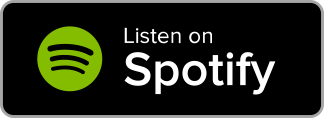
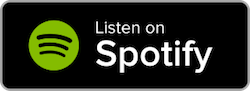
Reduce image sizes

diff --git a/index.html b/index.html
@@ -8,7 +8,7 @@
 
     <!-- HEADER -->
     <header>
-      <img src="images/albums/hopeinspades/tobetterwaters-weblogo_01a.png" alt="to better waters image">
+      <img src="images/albums/hopeinspades/tobetterwaters-weblogo_01a-edited.png" alt="to better waters image">
       <ul>
         <!-- PAGE LINKS -->
         <li><a href="index.html">home</a></li>
@@ -30,9 +30,9 @@
       </div>
       <!-- ALBUM RELEASE INFO -->
       <div class="album-release">
-        <img src="images/albums/hopeinspades/tobetterwaters-weblogo_04a.png" alt="album cover">
-        <img src="images/albums/hopeinspades/tobetterwaters-weblogo_01a.png" alt="to better waters">
-        <img src="images/albums/hopeinspades/tobetterwaters-weblogo_03a.png" alt="new album available now">
+        <img src="images/albums/hopeinspades/tobetterwaters-weblogo_04a-edited.png" alt="album cover">
+        <img src="images/albums/hopeinspades/tobetterwaters-weblogo_01a-edited.png" alt="to better waters">
+        <img src="images/albums/hopeinspades/tobetterwaters-weblogo_03a-edited.png" alt="new album available now">
         <a href=""><!-- INSERT ITUNES LINK HERE--></a>
       </div>
     </div>
@@ -48,7 +48,7 @@
 
     <!-- BAND PHOTO -->
     <div class="band-photo">
-      <img src="images/band/tbw_01.jpg" alt="band photo couch">
+      <img src="images/band/tbw_01-edited.jpg" alt="band photo couch">
     </div>
     <!-- END BAND PHOTO -->
 
@@ -152,7 +152,7 @@
         <a href="mailto:tobetterwaters@gmail.com">contact: tobetterwaters@gmail.com</a>
       </div>
       <div class="bitey">
-        <img src="images/albums/hopeinspades/tobetterwaters-weblogo_02a.png" alt="bitey image">
+        <img src="images/albums/hopeinspades/tobetterwaters-weblogo_02a-edited.png" alt="bitey image">
       </div>
 
       <!-- SOCIAL MEDIA LINKS -->

diff --git a/README.md b/README.md
@@ -1,1 +1,17 @@
 # tobetterwaters
+
+#### TBW WEBSITE DETAILS
+---
+
+##### COLORS:
+#fff5d8 - (gold)
+#4F790B - (green)
+#171717 - (background)
+
+#a1a1a1 - (past dates)
+#ffffff - (future dates)
+#ae40a5 - (rescheduled dates)
+
+##### FONTS:
+Navigation Menu: MONSERRAT
+Paragraph Text: ARIAL
